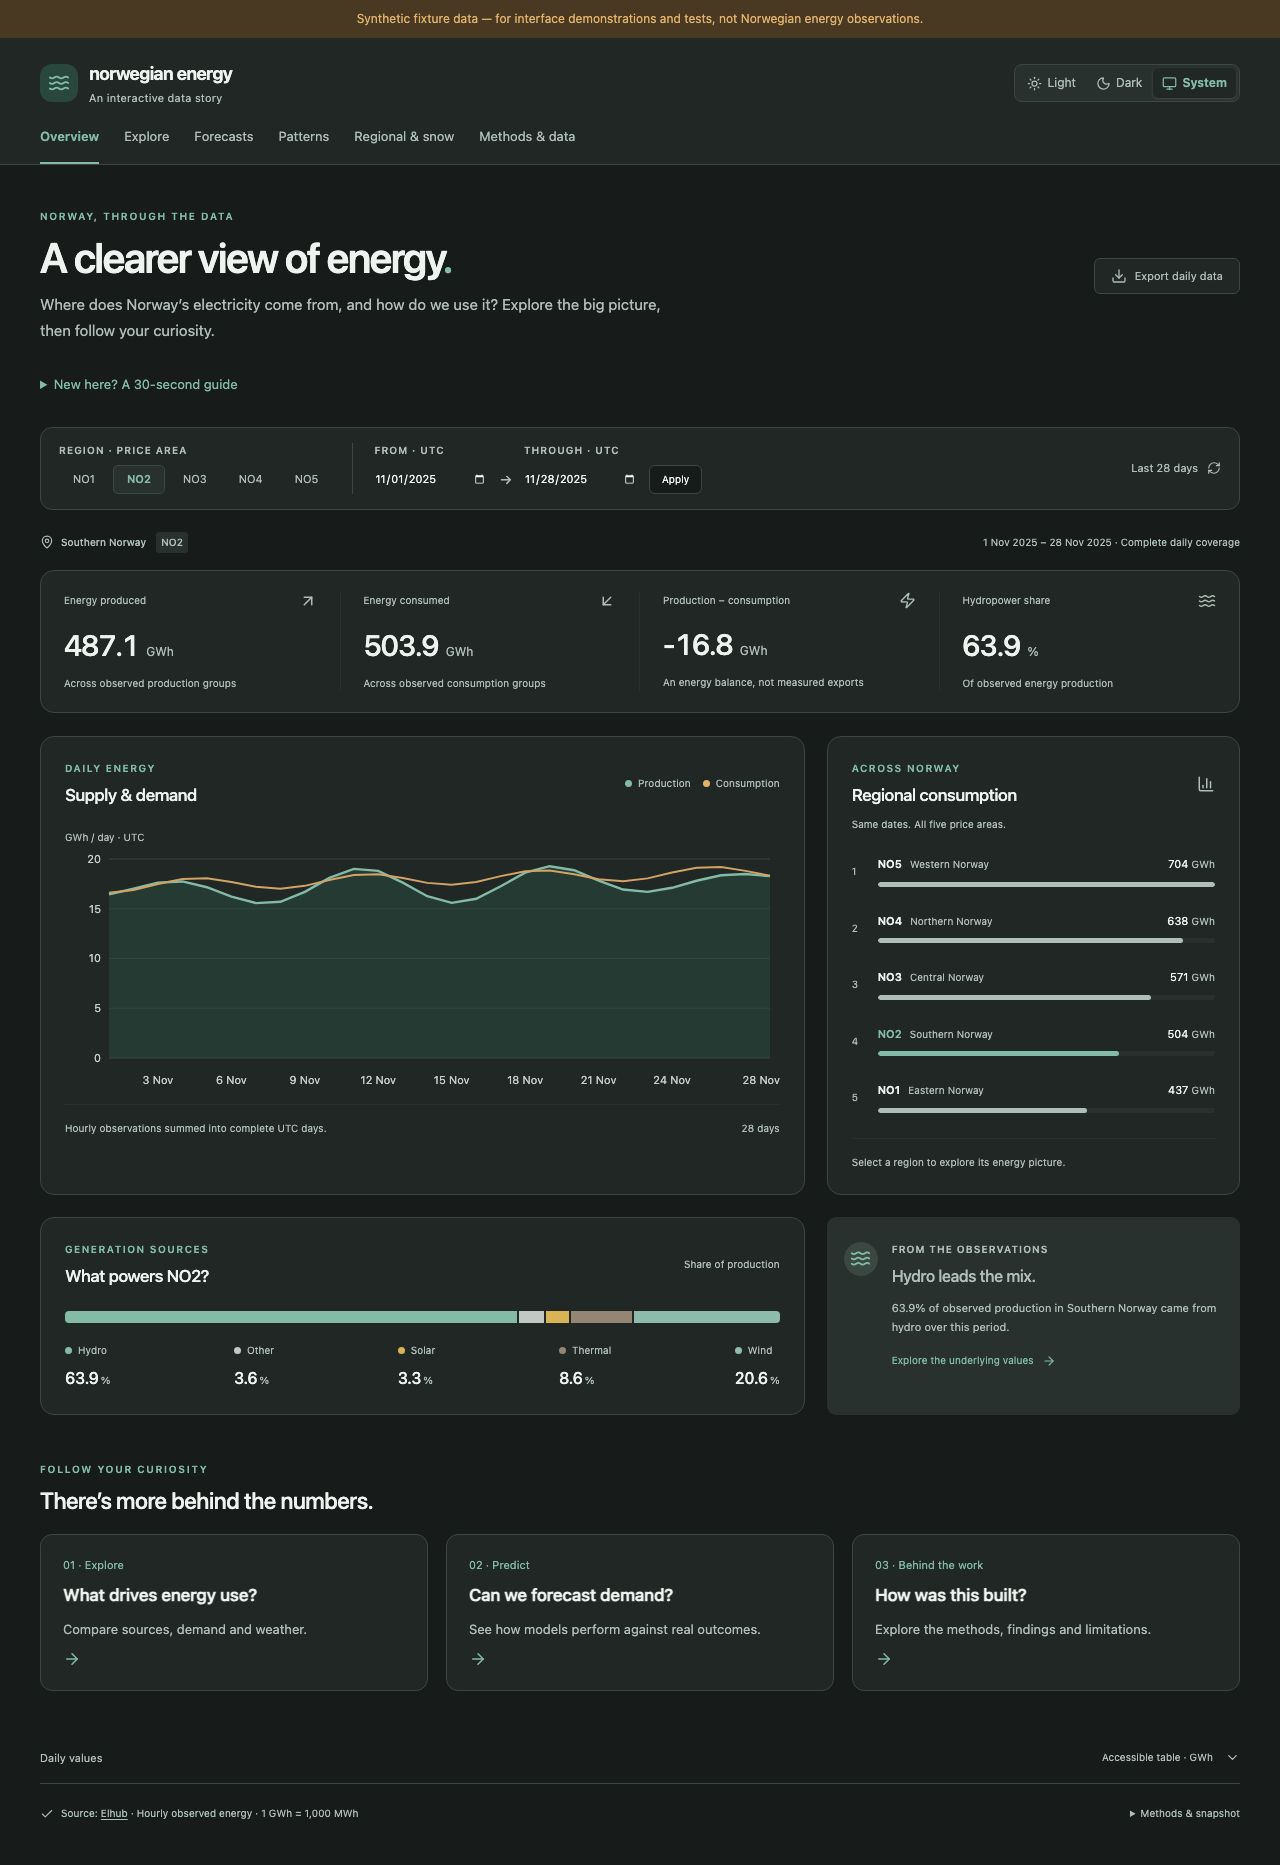
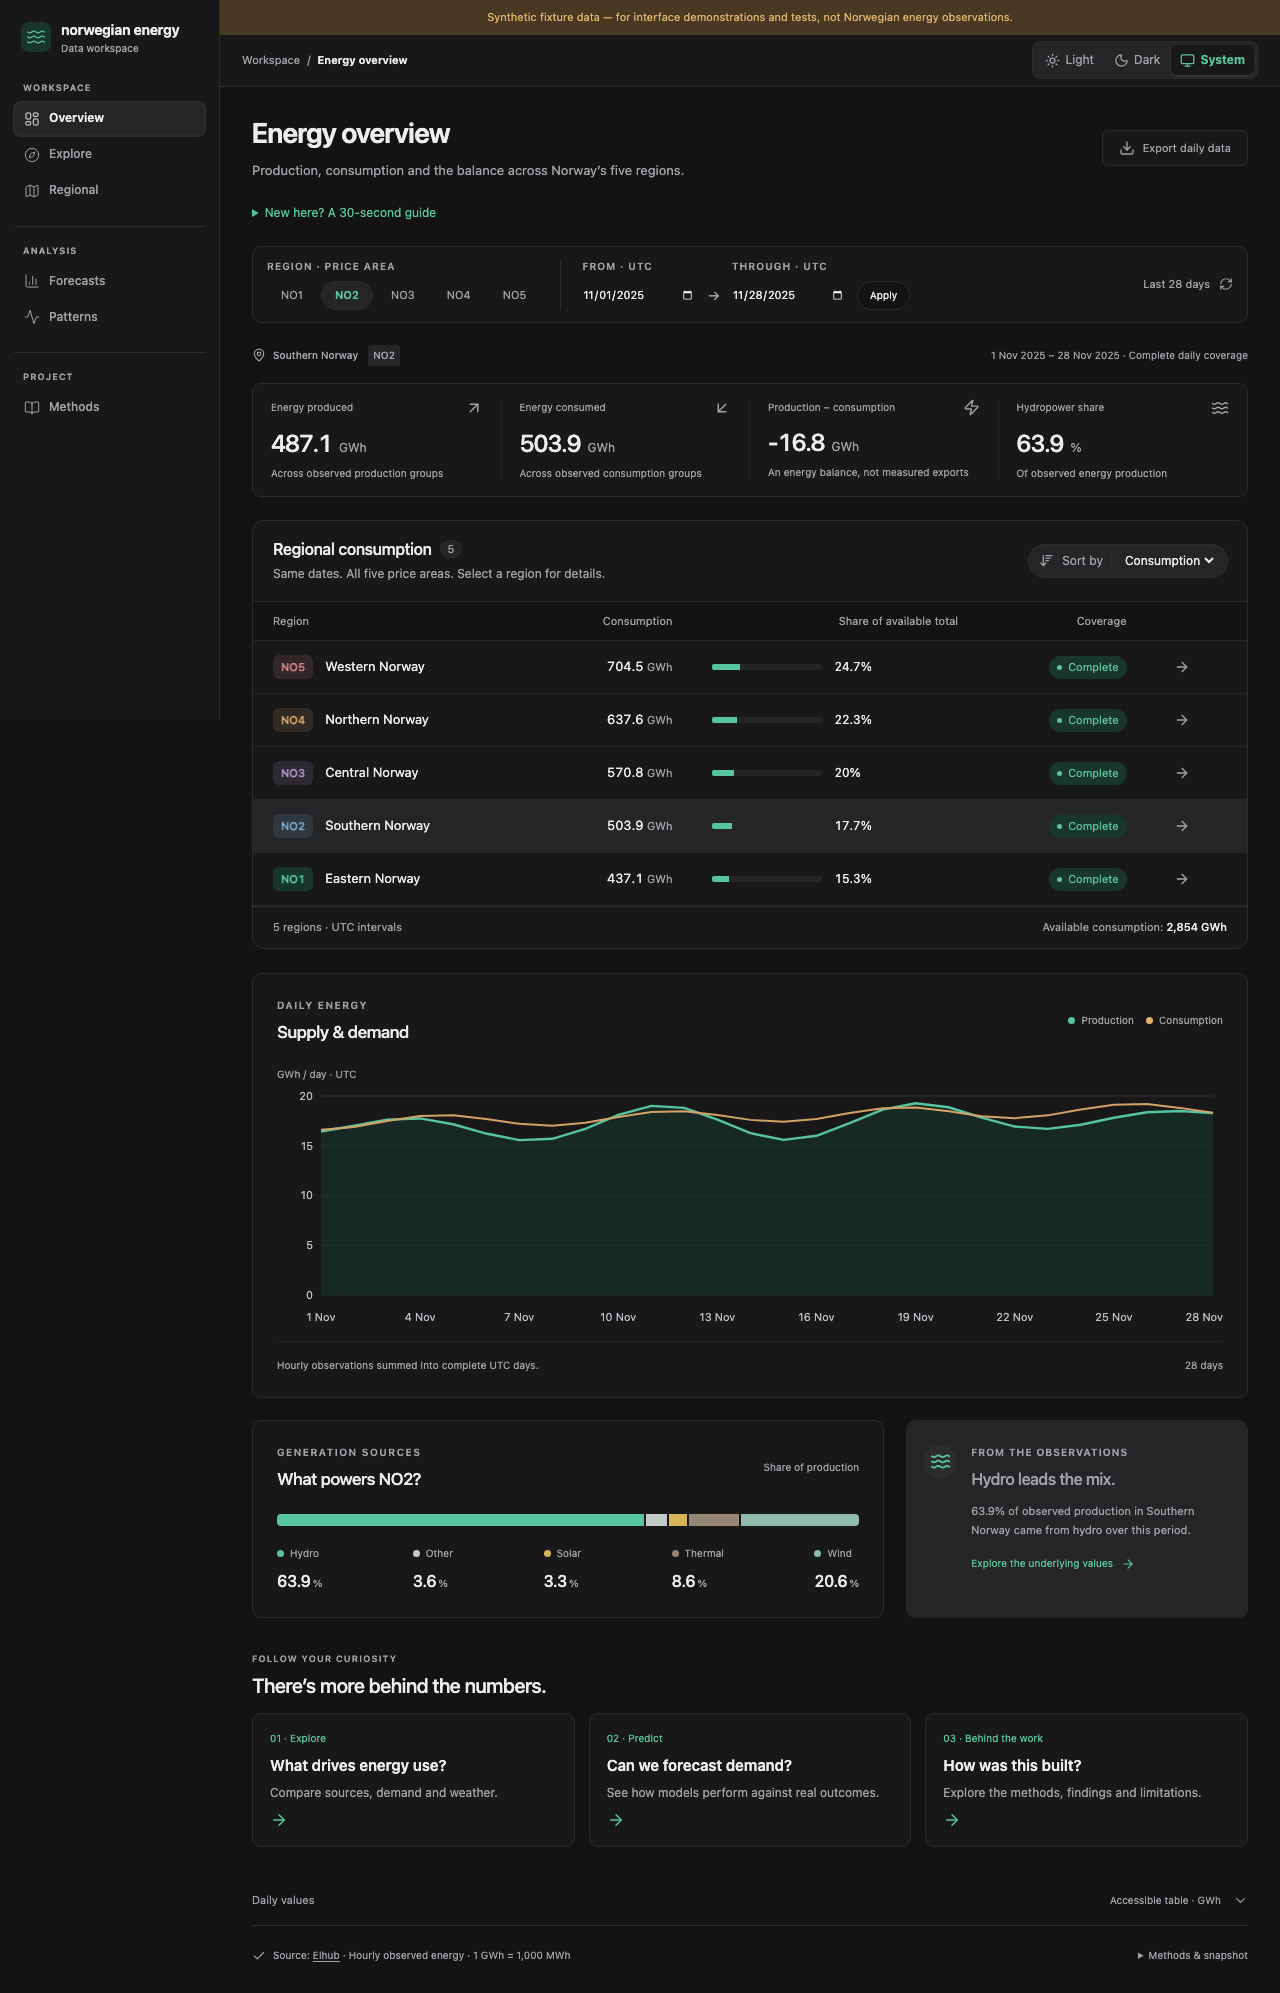
docs: document regional comparison UI and refresh screenshots

diff --git a/docs/UI_DESIGN.md b/docs/UI_DESIGN.md
@@ -4,17 +4,20 @@ Implemented 2026-09-15. The interface supports two levels of reading: a visitor 
 
 ## What changed
 
-- One navigation layout across all six dashboard pages, with every destination visible on mobile.
+- A persistent desktop sidebar groups the six pages into Workspace, Analysis and Project. A slim top bar keeps the current page and theme controls visible; all destinations remain visible on mobile.
+- The overview opens with compact metrics and a sortable five-region consumption table. Region details open in a right-hand drawer with energy totals, generation mix and source coverage for the selected dates. Inspecting a region keeps the current overview intact until “View this region” is selected.
 - Light, dark and system themes. Preference persists across visits; charts, tooltips and PNG backgrounds follow the active theme. Theme changes update chart styles without recreating the chart instance.
 - A plain-language overview introduction, optional short reading guides and three pathways into exploration, forecasting and project methods.
 - Diagnostic choices describe the question first. Model parameters sit under “Method settings”; keyboard arrows move between choices.
 - The explorer starts with daily summaries; explicit hourly/weekly URL selections still work. Line opacity is under “Display options”. The underlying aggregation rules, source values and exports are unchanged.
-- Shared colors, quieter card borders and restrained hover/press feedback. Reduced-motion preference removes those transitions. No animation framework or runtime dependency was added.
+- Neutral charcoal and light surfaces, compact pill controls, subtle row dividers and restrained hover/press feedback. Theme changes apply immediately without color transitions. The detail drawer supports Escape, focus return and keyboard opening without motion. Reduced-motion preference removes those transitions. No animation framework or runtime dependency was added.
 
 ## References and selection
 
 Reviewed [Beautiful UI](https://www.beautifului.dev/), [beUI’s catalog](https://beui.dev/llms.txt), [Rare UI](https://www.rareui.com/), [Transitions.dev](https://transitions.dev/) and [shadcn/ui](https://ui.shadcn.com/docs/components). Applied the ideas of clear navigation, compact selection controls, optional detail and restrained state feedback. The existing shadcn-style buttons/cards and native disclosures were sufficient; no third-party component source was copied.
 
+The supplied CRM screenshots informed the compact workspace structure, neutral selected rows, small badges and detail drawer. Applied [Emil’s design engineering skill](https://www.skills.sh/emilkowalski/skills/emil-design-eng) and [better-ui](https://www.skills.sh/jakubkrehel/skills/better-ui) for surface hierarchy, interaction feedback and restrained motion. The drawer uses native dialog behavior for focus and dismissal.
+
 ## Verification
 
-TypeScript and production builds pass. Six Chromium journeys cover the existing analytical routes and downloads plus system theme changes, saved preference across navigation/reload, 390px layouts, reading guides, hidden/revealed settings, keyboard method selection and reduced-motion mode. Light/dark desktop and mobile layouts were also inspected in the running preview. The [gallery](screenshots/README.md) uses explicitly synthetic fixture data; the development preview can use the published real snapshots.
+TypeScript and production builds pass. Seven Chromium journeys cover the existing analytical routes and downloads plus system theme changes, saved preference across navigation/reload, 390px layouts, reading guides, hidden/revealed settings, keyboard method selection reduced-motion mode, region sorting and keyboard drawer dismissal/focus return. Light/dark desktop and mobile layouts were also inspected in the running preview. The [gallery](screenshots/README.md) uses explicitly synthetic fixture data; the development preview can use the published real snapshots.

diff --git a/docs/screenshots/README.md b/docs/screenshots/README.md
@@ -14,6 +14,12 @@ A second NO2 date window, shown in dark mode. Theme choice also follows the oper
 
 ![Synthetic NO2 overview in dark mode](overview-dark.png)
 
+## Region detail drawer
+
+NO4 inspected while the overview remains on NO1. The panel uses the same date window and presents energy totals, generation mix and source coverage. Escape closes it and returns keyboard focus to the originating row.
+
+![Synthetic NO4 region details in dark mode](region-drawer-dark.png)
+
 ## Mobile methods and keyboard navigation
 
 390-pixel viewport, showing source coverage and the focused skip link. The journey checks keyboard focus and absence of horizontal overflow.
